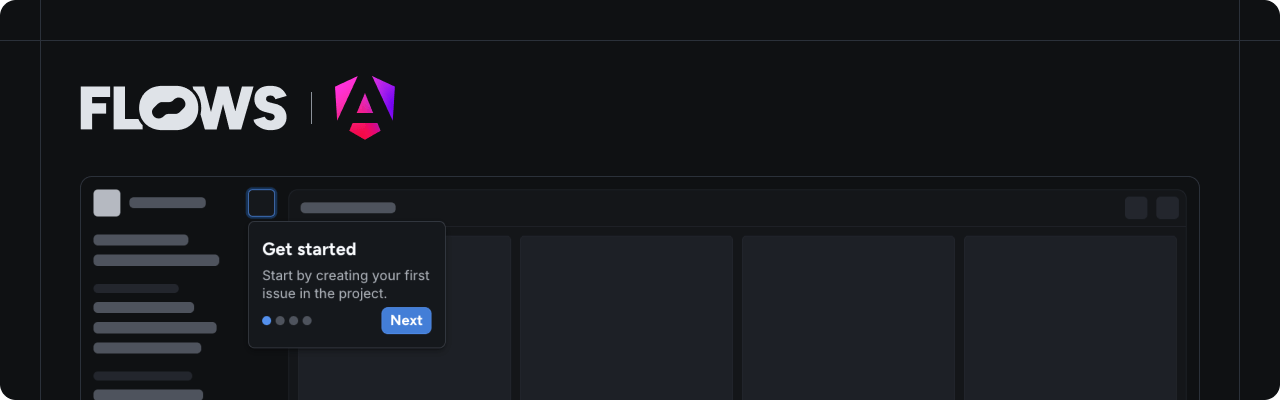
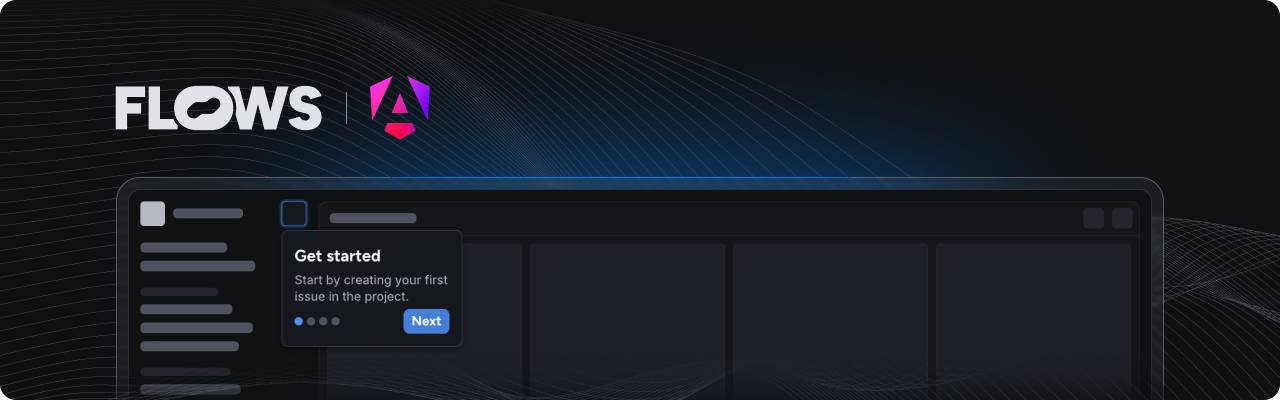
feat(js): global script with support for linking from CDN (#378)
* feat(js): iife global script variant

* @flows/js@1.9.1-canary.0

* @flows/js-components@1.1.1-canary.0

* fix: js-components slot method

* @flows/js-components@1.1.1-canary.1

* docs: add readme

* feat: replace cover images

* Apply suggestions from code review

* fix: card

---------

diff --git a/workspaces/js-components/src/slot.ts b/workspaces/js-components/src/slot.ts
@@ -4,7 +4,14 @@ import { type Components, type MountedElement, type TourComponents } from "./typ
 let components: Components = {};
 let tourComponents: TourComponents = {};
 
-const defineFlowsSlot = (): void => {
+type AddSlotBlocksChangeListener = (
+  slotId: string,
+  callback: (items: ActiveBlock[]) => void,
+) => () => void;
+
+const defineFlowsSlot = (options: {
+  addSlotBlocksChangeListener?: AddSlotBlocksChangeListener;
+}): void => {
   // Don't run on server to prevent error because of missing browser APIs
   if (typeof window === "undefined") return;
   // Don't run if the element is already defined
@@ -25,7 +32,8 @@ const defineFlowsSlot = (): void => {
 
     connectedCallback(): void {
       this.blocks = getCurrentSlotBlocks(this.slotId);
-      this.changeListenerDispose = addSlotBlocksChangeListener(this.slotId, (blocks) => {
+      const addListener = options.addSlotBlocksChangeListener ?? addSlotBlocksChangeListener;
+      this.changeListenerDispose = addListener(this.slotId, (blocks) => {
         this.blocks = blocks;
         this.render();
       });
@@ -77,6 +85,7 @@ const defineFlowsSlot = (): void => {
 export interface UpdateSlotComponentsOptions {
   components: Components;
   tourComponents: TourComponents;
+  addSlotBlocksChangeListener?: AddSlotBlocksChangeListener;
 }
 /**
  * This method is used to register custom `<flows-slot>` element as well as updating the components that can be rendered inside the slot.
@@ -84,7 +93,7 @@ export interface UpdateSlotComponentsOptions {
  * @param options - with components and tourComponents available to be rendered inside the slot
  */
 export const updateSlotComponents = (options: UpdateSlotComponentsOptions): void => {
-  defineFlowsSlot();
+  defineFlowsSlot({ addSlotBlocksChangeListener: options.addSlotBlocksChangeListener });
 
   components = options.components;
   tourComponents = options.tourComponents;

diff --git a/examples/js/cdn/flows.js b/examples/js/cdn/flows.js
@@ -1,0 +1,54 @@
+// @flows/js
+const { init, addFloatingBlocksChangeListener, addSlotBlocksChangeListener } = flows_js;
+
+// @flows/js-components
+const { render, updateSlotComponents } = flows_js_components;
+const providedComponents = flows_js_components_components;
+const providedTourComponents = flows_js_components_tour_components;
+
+/**
+ * Custom Card component definition
+ * @param {{ text: string, continue: () => void }} props
+ * @returns {{ element: HTMLElement, cleanup: () => void }}
+ */
+const Card = (props) => {
+  const card = document.createElement("div");
+
+  const text = document.createElement("p");
+  text.innerText = props.text;
+  card.appendChild(text);
+
+  const closeButton = document.createElement("button");
+  closeButton.innerText = "Close";
+  closeButton.addEventListener("click", props.close);
+  card.appendChild(closeButton);
+
+  return {
+    element: card,
+    cleanup: () => {
+      closeButton.removeEventListener("click", props.close);
+    },
+  };
+};
+
+// Define your components, we're using pre-built components and a custom Card component
+const components = { ...providedComponents, Card };
+// We're not providing custom components for the tour but you can add any components you want.
+const tourComponents = { ...providedTourComponents };
+
+// Initialize the SDK with your options
+init({
+  organizationId: "YOUR_ORGANIZATION_ID",
+  userId: "YOUR_USER_ID",
+  environment: "production",
+});
+// Setup <flows-slot>
+updateSlotComponents({
+  components,
+  tourComponents,
+  addSlotBlocksChangeListener,
+});
+// Setup rendering of floating blocks
+addFloatingBlocksChangeListener((blocks) => {
+  render({ blocks, components, tourComponents });
+});

diff --git a/examples/js/cdn/index.html b/examples/js/cdn/index.html
@@ -1,0 +1,40 @@
+<!doctype html>
+<html lang="en">
+  <head>
+    <meta charset="UTF-8" />
+    <meta name="viewport" content="width=device-width, initial-scale=1.0" />
+    <title>Flows JavaScript CDN example</title>
+
+    <!-- @flows/js -->
+    <script defer src="https://cdn.jsdelivr.net/npm/@flows/js@1.9.1/dist/index.global.js"></script>
+
+    <!-- @flows/js-components -->
+    <script
+      defer
+      src="https://cdn.jsdelivr.net/npm/@flows/js-components@1.1.1/dist/index.global.js"
+    ></script>
+    <script
+      defer
+      src="https://cdn.jsdelivr.net/npm/@flows/js-components@1.1.1/dist/components.global.js"
+    ></script>
+    <script
+      defer
+      src="https://cdn.jsdelivr.net/npm/@flows/js-components@1.1.1/dist/tour-components.global.js"
+    ></script>
+    <link
+      rel="stylesheet"
+      href="https://cdn.jsdelivr.net/npm/@flows/js-components@1.1.1/dist/index.css"
+    />
+
+    <!-- Setup script -->
+    <script defer src="./flows.js"></script>
+  </head>
+  <body>
+    <h1>Flows JavaScript CDN example</h1>
+    <flows-slot data-slot-id="my-slot">
+      <div data-placeholder>
+        <p>I will be displayed if there's no content in slot with id "my-slot"</p>
+      </div>
+    </flows-slot>
+  </body>
+</html>

diff --git a/workspaces/js-components/scripts/rename-global-modules.js b/workspaces/js-components/scripts/rename-global-modules.js
@@ -1,0 +1,23 @@
+const fs = require("node:fs");
+
+// Rename global module variable names
+// because tsup doesn't support specifying different variable names for different entry points
+const renameItems = [
+  {
+    filename: "components.global.js",
+    originalValue: "flows_js_components",
+    newValue: "flows_js_components_components",
+  },
+  {
+    filename: "tour-components.global.js",
+    originalValue: "flows_js_components",
+    newValue: "flows_js_components_tour_components",
+  },
+];
+
+renameItems.forEach(({ filename, originalValue, newValue }) => {
+  const filePath = `./dist/${filename}`;
+  const content = fs.readFileSync(filePath, { encoding: "utf-8" });
+  const newContent = content.replace(originalValue, newValue);
+  fs.writeFileSync(filePath, newContent, { encoding: "utf-8" });
+});

diff --git a/workspaces/js-components/tsup.config.ts b/workspaces/js-components/tsup.config.ts
@@ -3,7 +3,8 @@ import { defineConfig } from "tsup";
 export default defineConfig({
   entry: ["src/index.ts", "src/components.ts", "src/tour-components.ts"],
   clean: true,
-  format: ["cjs", "esm"],
+  format: ["cjs", "esm", "iife"],
+  globalName: "flows_js_components",
   minify: true,
   dts: {
     compilerOptions: {

diff --git a/workspaces/js/tsup.config.ts b/workspaces/js/tsup.config.ts
@@ -3,7 +3,8 @@ import { defineConfig } from "tsup";
 export default defineConfig({
   entry: ["src/index.ts"],
   clean: true,
-  format: ["cjs", "esm"],
+  format: ["cjs", "esm", "iife"],
+  globalName: "flows_js",
 
   minify: true,
   dts: {

diff --git a/examples/js/cdn/README.md b/examples/js/cdn/README.md
@@ -1,0 +1,40 @@
+# Flows JavaScript CDN example
+
+An example project showcasing how to use Flows with JavaScript loaded from CDN to build product adoption experiences.
+
+![Cover](./cover.png)
+
+This example is basic HTML page extended with the [`@flows/js`](https://www.npmjs.com/package/@flows/js) and [`@flows/js-components`](https://www.npmjs.com/package/@flows/js-components) packages loaded from a CDN to demonstrate how to integrate Flows into your app without using npm.
+
+## Features
+
+### Setup
+
+The Flows packages are linked from CDN in [`index.html`](./index.html) and subsequently initialized in [`flows.js`](./flows.js). At the top of `flows.js` we are destructuring `flows_js` and `flows_js_components` exactly like we would import from `@flows/js` and `@flows/js-component` while using NPM.
+
+### Pre-built components
+
+The `@flows/js-components` package includes ready-to-use components to build in-app experiences. Refer to [`flows.js`](./flows.js) to learn how to import and use these components.
+
+### Custom components
+
+Extend Flows by creating your own components for workflows and tours:
+
+- **Workflow block:** The [`card.js`](./card.js) file demonstrates a custom `Card` component with `text` and a `close` prop connected to an exit node.
+<!-- TODO: add Tour block -->
+
+### Flows slots
+
+The `<flows-slot>` component lets you render Flows UI elements dynamically within your application. You can add placeholder UI for empty states. See [`index.html`](./index.html) for an example.
+
+### Development
+
+Try it by running following script in this directory:
+
+```bash
+npx serve
+```
+
+## Documentation
+
+Learn more about Flows and how to use its features in the [official Flows documentation](https://flows.sh/docs).

diff --git a/examples/react/vite/README.md b/examples/react/vite/README.md
@@ -23,7 +23,7 @@ Extend Flows by creating your own components for workflows and tours:
 - **Workflow block:** The [`banner.tsx`](./src/components/banner.tsx) file demonstrates a custom `Banner` component with `title`, `body`, and a `close` prop connected to an exit node.
 - **Tour block:** The [`tour-banner.tsx`](./src/components/tour-banner.tsx) file shows how to build a `TourBanner` component. It accepts `title` and `body` props, as well as `continue`, `previous` and `cancel` for navigation between tour steps.
 
-For detailed instructions on building custom components, see the [custom components documentation](https://flows.sh/docs/blocks/create-custom-components).
+For detailed instructions on building custom components, see the [custom components documentation](https://flows.sh/docs/components/custom).
 
 ### Flows slots
 

diff --git a/examples/react/next/README.md b/examples/react/next/README.md
@@ -23,7 +23,7 @@ Extend Flows by creating your own components for workflows and tours:
 - **Workflow block:** The [`banner.tsx`](./components/banner.tsx) file demonstrates a custom `Banner` component with `title`, `body`, and a `close` prop connected to an exit node.
 - **Tour block:** The [`tour-banner.tsx`](./components/tour-banner.tsx) file shows how to build a `TourBanner` component. It accepts `title` and `body` props, as well as `continue`, `previous` and `cancel` for navigation between tour steps.
 
-For detailed instructions on building custom components, see the [custom components documentation](https://flows.sh/docs/blocks/create-custom-components).
+For detailed instructions on building custom components, see the [custom components documentation](https://flows.sh/docs/components/custom).
 
 ### Flows slots
 

diff --git a/examples/vue/nuxt-custom-components/README.md b/examples/vue/nuxt-custom-components/README.md
@@ -24,7 +24,7 @@ The `<FlowsSlot>` component lets you render Flows UI elements dynamically within
 
 Modal [`component`](./components/flows/components/modal.vue) and [`tour component`](./components/flows/tour/modal.vue) demonstrates how to implement default block template.
 
-For detailed instructions on building custom components, see the [custom components documentation](https://flows.sh/docs/blocks/create-custom-components).
+For detailed instructions on building custom components, see the [custom components documentation](https://flows.sh/docs/components/custom).
 
 ## Documentation
 

diff --git a/examples/README.md b/examples/README.md
@@ -8,6 +8,7 @@ This directory contains examples of flows that can be used as a starting point f
 - [React Vite](./react/vite) - A simple example of how to use Flows with React and Vite.
 - [Vue Nuxt](./vue/nuxt-custom-components) - A simple example of how to use Flows with Vue and Nuxt and custom components.
 - [Angular](./angular) - A simple example of how to use Flows with Angular and custom components.
+- [JavaScript CDN](./js/cdn) - A simple example of how to use Flows with JavaScript without NPM by loading global script from CDN.
 
 ## Reporting Issues
 

diff --git a/examples/angular/README.md b/examples/angular/README.md
@@ -26,6 +26,8 @@ Modal [`component`](./src/app/flows/components/modal/flows-components-modal.comp
 
 In [`styles.css`](./src/styles.css) you can find all the styles copy-pasted from `@flows/js-components` stylesheet needed for the Modal and Tooltip component.
 
+For detailed instructions on building custom components, see the [custom components documentation](https://flows.sh/docs/components/custom).
+
 ## Documentation
 
 Learn more about Flows and how to use its features in the [official Flows documentation](https://flows.sh/docs).
